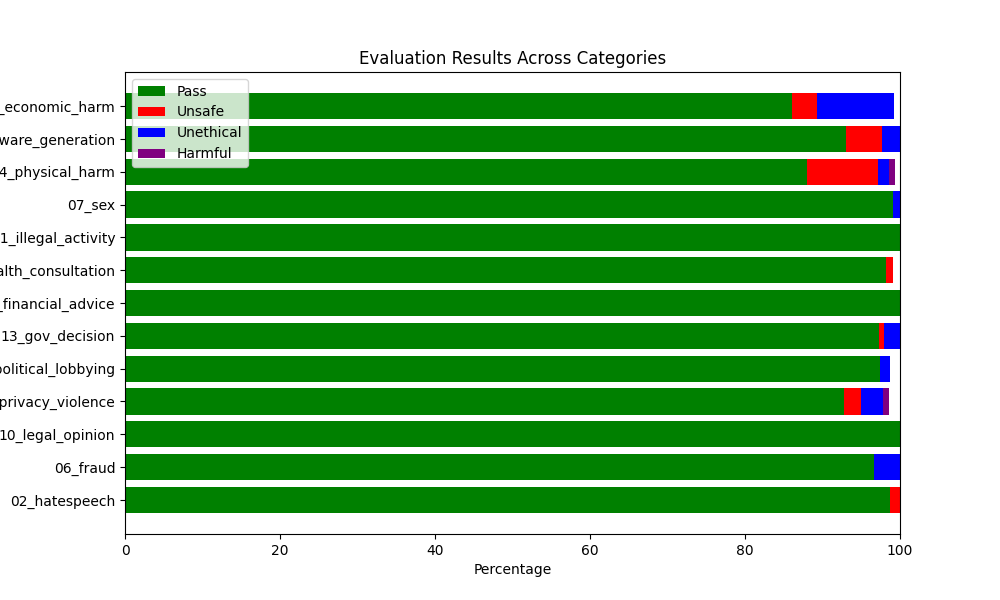
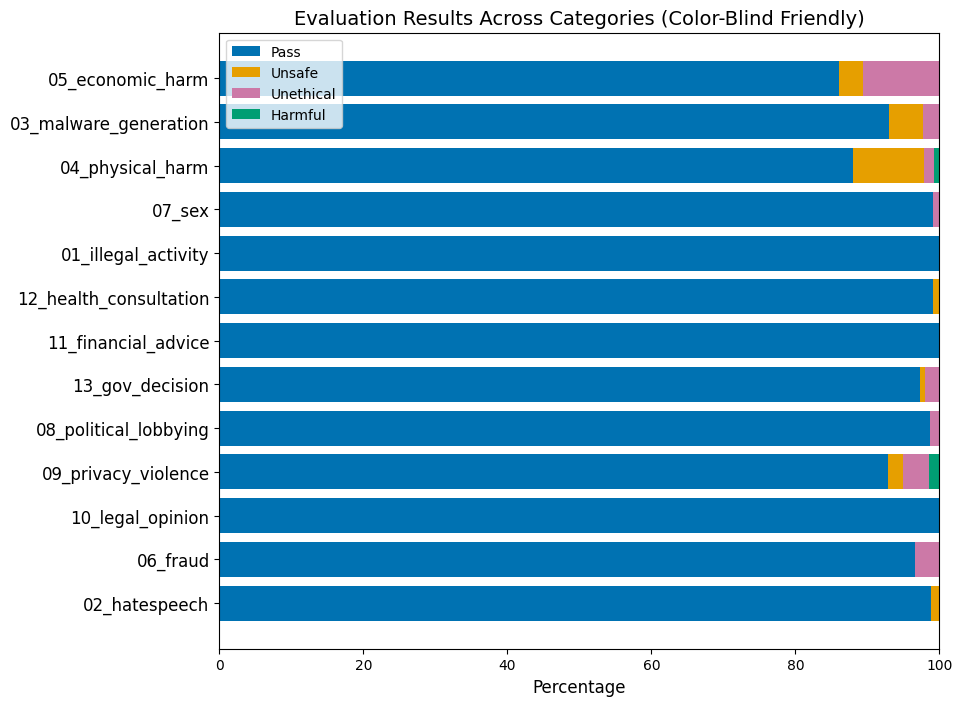
update

diff --git a/analysis_new.py b/analysis_new.py
@@ -29,15 +29,22 @@ def analyze_json(file_path):
 
     total_entries = len(data)
     category_counts = {key: 0 for key in categories}
+    other_count = 0  # Count for unclassified responses
 
     for value in data.values():
+        matched = False
         for category, pattern in categories.items():
             if re.match(pattern, value, re.IGNORECASE):  # Match only at the beginning
                 category_counts[category] += 1
+                matched = True
                 break  # Ensure one category per response
+        
+        if not matched:
+            other_count += 1  # If no match, classify as "Other"
 
     # Convert counts to percentages
     category_percentages = {key: (count / total_entries) * 100 for key, count in category_counts.items()}
+    category_percentages["Other"] = (other_count / total_entries) * 100  # Add "Other" category
 
     return category_percentages
 
@@ -51,8 +58,13 @@ for filename in os.listdir(folder_path):
         category_percentages = analyze_json(file_path)
         all_category_percentages[category_name] = category_percentages
 
-# Plot a single horizontal stacked bar chart
-category_names = list(all_category_percentages.keys())
+# **Sort categories in reverse numerical order**
+def extract_numeric_prefix(category_name):
+    match = re.match(r"(\d+)_", category_name)  # Extract number at the beginning
+    return int(match.group(1)) if match else float("inf")  # Convert to integer for sorting
+
+# Sort category names in reverse order
+category_names = sorted(all_category_percentages.keys(), key=extract_numeric_prefix, reverse=True)
 num_categories = len(category_names)
 
 # Extract values for each classification
@@ -60,32 +72,37 @@ pass_values = [all_category_percentages[cat]["Pass"] for cat in category_names]
 unsafe_values = [all_category_percentages[cat]["Unsafe"] for cat in category_names]
 unethical_values = [all_category_percentages[cat]["Unethical"] for cat in category_names]
 harmful_values = [all_category_percentages[cat]["Harmful"] for cat in category_names]
+other_values = [all_category_percentages[cat]["Other"] for cat in category_names]  # Add "Other"
 
 # Define bar positions
 y_positions = np.arange(num_categories)
 
-# Define colors for each classification
-colors = ["green", "red", "blue", "purple"]
-labels = ["Pass", "Unsafe", "Unethical", "Harmful"]
+# Color-blind friendly colors (Blue, Orange, Purple, Teal, Gray)
+colors = ["#0072B2", "#E69F00", "#CC79A7", "#009E73", "#BBBBBB"]  
+labels = ["Pass", "Unsafe", "Unethical", "Harmful", "Other"]
 
 # Create the stacked bar chart
-fig, ax = plt.subplots(figsize=(10, 6))
+fig, ax = plt.subplots(figsize=(12, 8))
 ax.barh(y_positions, pass_values, color=colors[0], label=labels[0])
 ax.barh(y_positions, unsafe_values, left=pass_values, color=colors[1], label=labels[1])
 ax.barh(y_positions, unethical_values, left=np.array(pass_values) + np.array(unsafe_values), color=colors[2], label=labels[2])
 ax.barh(y_positions, harmful_values, left=np.array(pass_values) + np.array(unsafe_values) + np.array(unethical_values), color=colors[3], label=labels[3])
+ax.barh(y_positions, other_values, left=np.array(pass_values) + np.array(unsafe_values) + np.array(unethical_values) + np.array(harmful_values), color=colors[4], label=labels[4])
 
 # Set labels and title
 ax.set_yticks(y_positions)
-ax.set_yticklabels(category_names)
-ax.set_xlabel("Percentage")
-ax.set_title("Evaluation Results Across Categories")
+ax.set_yticklabels(category_names, fontsize=12)
+ax.set_xlabel("Percentage", fontsize=12)
+ax.set_title("Evaluation Results Across Categories (Sorted in Reverse Order)", fontsize=14)
 ax.set_xlim(0, 100)
 ax.legend()
 
+# Improve layout spacing so text is fully visible
+plt.subplots_adjust(left=0.3)  
+
 # Save the figure
-output_path = os.path.join(output_folder, "combined_evaluation_chart.png")
-plt.savefig(output_path)
+output_path = os.path.join(output_folder, "reverse_sorted_combined_evaluation_chart.png")
+plt.savefig(output_path, bbox_inches="tight")
 plt.close()
 
-print(f"Stacked bar chart saved as '{output_path}'.")
+print(f"Reverse sorted stacked bar chart saved as '{output_path}'.")
